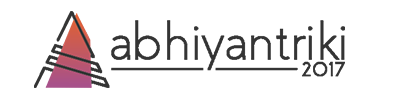
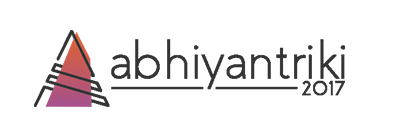
responsiveness

diff --git a/dist/bundle.js b/dist/bundle.js
@@ -1,1 +1,1 @@
-!function(e){var t={};function r(n){if(t[n])return t[n].exports;var o=t[n]={i:n,l:!1,exports:{}};return e[n].call(o.exports,o,o.exports,r),o.l=!0,o.exports}r.m=e,r.c=t,r.d=function(e,t,n){r.o(e,t)||Object.defineProperty(e,t,{enumerable:!0,get:n})},r.r=function(e){"undefined"!=typeof Symbol&&Symbol.toStringTag&&Object.defineProperty(e,Symbol.toStringTag,{value:"Module"}),Object.defineProperty(e,"__esModule",{value:!0})},r.t=function(e,t){if(1&t&&(e=r(e)),8&t)return e;if(4&t&&"object"==typeof e&&e&&e.__esModule)return e;var n=Object.create(null);if(r.r(n),Object.defineProperty(n,"default",{enumerable:!0,value:e}),2&t&&"string"!=typeof e)for(var o in e)r.d(n,o,function(t){return e[t]}.bind(null,o));return n},r.n=function(e){var t=e&&e.__esModule?function(){return e.default}:function(){return e};return r.d(t,"a",t),t},r.o=function(e,t){return Object.prototype.hasOwnProperty.call(e,t)},r.p="/dist",r(r.s=5)}([function(e,t){e.exports=function(e){var t="undefined"!=typeof window&&window.location;if(!t)throw new Error("fixUrls requires window.location");if(!e||"string"!=typeof e)return e;var r=t.protocol+"//"+t.host,n=r+t.pathname.replace(/\/[^\/]*$/,"/");return e.replace(/url\s*\(((?:[^)(]|\((?:[^)(]+|\([^)(]*\))*\))*)\)/gi,function(e,t){var o,i=t.trim().replace(/^"(.*)"$/,function(e,t){return t}).replace(/^'(.*)'$/,function(e,t){return t});return/^(#|data:|http:\/\/|https:\/\/|file:\/\/\/|\s*$)/i.test(i)?e:(o=0===i.indexOf("//")?i:0===i.indexOf("/")?r+i:n+i.replace(/^\.\//,""),"url("+JSON.stringify(o)+")")})}},function(e,t,r){var n={},o=function(e){var t;return function(){return void 0===t&&(t=e.apply(this,arguments)),t}}(function(){return window&&document&&document.all&&!window.atob}),i=function(e){var t={};return function(e){if("function"==typeof e)return e();if(void 0===t[e]){var r=function(e){return document.querySelector(e)}.call(this,e);if(window.HTMLIFrameElement&&r instanceof window.HTMLIFrameElement)try{r=r.contentDocument.head}catch(e){r=null}t[e]=r}return t[e]}}(),a=null,c=0,s=[],f=r(0);function l(e,t){for(var r=0;r<e.length;r++){var o=e[r],i=n[o.id];if(i){i.refs++;for(var a=0;a<i.parts.length;a++)i.parts[a](o.parts[a]);for(;a<o.parts.length;a++)i.parts.push(b(o.parts[a],t))}else{var c=[];for(a=0;a<o.parts.length;a++)c.push(b(o.parts[a],t));n[o.id]={id:o.id,refs:1,parts:c}}}}function u(e,t){for(var r=[],n={},o=0;o<e.length;o++){var i=e[o],a=t.base?i[0]+t.base:i[0],c={css:i[1],media:i[2],sourceMap:i[3]};n[a]?n[a].parts.push(c):r.push(n[a]={id:a,parts:[c]})}return r}function d(e,t){var r=i(e.insertInto);if(!r)throw new Error("Couldn't find a style target. This probably means that the value for the 'insertInto' parameter is invalid.");var n=s[s.length-1];if("top"===e.insertAt)n?n.nextSibling?r.insertBefore(t,n.nextSibling):r.appendChild(t):r.insertBefore(t,r.firstChild),s.push(t);else if("bottom"===e.insertAt)r.appendChild(t);else{if("object"!=typeof e.insertAt||!e.insertAt.before)throw new Error("[Style Loader]\n\n Invalid value for parameter 'insertAt' ('options.insertAt') found.\n Must be 'top', 'bottom', or Object.\n (https://github.com/webpack-contrib/style-loader#insertat)\n");var o=i(e.insertInto+" "+e.insertAt.before);r.insertBefore(t,o)}}function p(e){if(null===e.parentNode)return!1;e.parentNode.removeChild(e);var t=s.indexOf(e);t>=0&&s.splice(t,1)}function h(e){var t=document.createElement("style");return void 0===e.attrs.type&&(e.attrs.type="text/css"),m(t,e.attrs),d(e,t),t}function m(e,t){Object.keys(t).forEach(function(r){e.setAttribute(r,t[r])})}function b(e,t){var r,n,o,i;if(t.transform&&e.css){if(!(i=t.transform(e.css)))return function(){};e.css=i}if(t.singleton){var s=c++;r=a||(a=h(t)),n=g.bind(null,r,s,!1),o=g.bind(null,r,s,!0)}else e.sourceMap&&"function"==typeof URL&&"function"==typeof URL.createObjectURL&&"function"==typeof URL.revokeObjectURL&&"function"==typeof Blob&&"function"==typeof btoa?(r=function(e){var t=document.createElement("link");return void 0===e.attrs.type&&(e.attrs.type="text/css"),e.attrs.rel="stylesheet",m(t,e.attrs),d(e,t),t}(t),n=function(e,t,r){var n=r.css,o=r.sourceMap,i=void 0===t.convertToAbsoluteUrls&&o;(t.convertToAbsoluteUrls||i)&&(n=f(n));o&&(n+="\n/*# sourceMappingURL=data:application/json;base64,"+btoa(unescape(encodeURIComponent(JSON.stringify(o))))+" */");var a=new Blob([n],{type:"text/css"}),c=e.href;e.href=URL.createObjectURL(a),c&&URL.revokeObjectURL(c)}.bind(null,r,t),o=function(){p(r),r.href&&URL.revokeObjectURL(r.href)}):(r=h(t),n=function(e,t){var r=t.css,n=t.media;n&&e.setAttribute("media",n);if(e.styleSheet)e.styleSheet.cssText=r;else{for(;e.firstChild;)e.removeChild(e.firstChild);e.appendChild(document.createTextNode(r))}}.bind(null,r),o=function(){p(r)});return n(e),function(t){if(t){if(t.css===e.css&&t.media===e.media&&t.sourceMap===e.sourceMap)return;n(e=t)}else o()}}e.exports=function(e,t){if("undefined"!=typeof DEBUG&&DEBUG&&"object"!=typeof document)throw new Error("The style-loader cannot be used in a non-browser environment");(t=t||{}).attrs="object"==typeof t.attrs?t.attrs:{},t.singleton||"boolean"==typeof t.singleton||(t.singleton=o()),t.insertInto||(t.insertInto="head"),t.insertAt||(t.insertAt="bottom");var r=u(e,t);return l(r,t),function(e){for(var o=[],i=0;i<r.length;i++){var a=r[i];(c=n[a.id]).refs--,o.push(c)}e&&l(u(e,t),t);for(i=0;i<o.length;i++){var c;if(0===(c=o[i]).refs){for(var s=0;s<c.parts.length;s++)c.parts[s]();delete n[c.id]}}}};var v=function(){var e=[];return function(t,r){return e[t]=r,e.filter(Boolean).join("\n")}}();function g(e,t,r,n){var o=r?"":n.css;if(e.styleSheet)e.styleSheet.cssText=v(t,o);else{var i=document.createTextNode(o),a=e.childNodes;a[t]&&e.removeChild(a[t]),a.length?e.insertBefore(i,a[t]):e.appendChild(i)}}},function(e,t){e.exports=function(e){var t=[];return t.toString=function(){return this.map(function(t){var r=function(e,t){var r=e[1]||"",n=e[3];if(!n)return r;if(t&&"function"==typeof btoa){var o=function(e){return"/*# sourceMappingURL=data:application/json;charset=utf-8;base64,"+btoa(unescape(encodeURIComponent(JSON.stringify(e))))+" */"}(n),i=n.sources.map(function(e){return"/*# sourceURL="+n.sourceRoot+e+" */"});return[r].concat(i).concat([o]).join("\n")}return[r].join("\n")}(t,e);return t[2]?"@media "+t[2]+"{"+r+"}":r}).join("")},t.i=function(e,r){"string"==typeof e&&(e=[[null,e,""]]);for(var n={},o=0;o<this.length;o++){var i=this[o][0];"number"==typeof i&&(n[i]=!0)}for(o=0;o<e.length;o++){var a=e[o];"number"==typeof a[0]&&n[a[0]]||(r&&!a[2]?a[2]=r:r&&(a[2]="("+a[2]+") and ("+r+")"),t.push(a))}},t}},function(e,t,r){(e.exports=r(2)(!1)).push([e.i,"*,:after,:before{margin:0;padding:0;box-sizing:inherit}:root{--color-primary:#fc427b;--color-primary-dark:#b33771;--color-secondary:#0062c5;--color-secondary-light:#1b9cfc;--color-white:#fff;--color-black:#222;--color-gray:#ccc;background-color:var(--color-white);color:var(--color-black)}body{box-sizing:border-box;overflow-x:hidden}a{text-decoration:none}body{font-size:1.6rem;font-family:Sans-Serif}.container{width:100vw;height:100vh;background:var(--color-gray);position:relative;border:.5rem solid var(--color-black)}.container__button{display:inline-block;background-color:var(--color-primary);color:var(--color-white);padding:.5rem 5rem;border-radius:3rem;position:relative;top:50%;left:50%;transform:translate(-50%,-50%);cursor:pointer;transition:all .5s ease-in-out;margin-bottom:1rem}.container__button:hover{box-shadow:0 .5rem .5rem -.2rem var(--color-black);transform:translate(-50%,calc(-50% - .5rem))}.container__heading{cursor:pointer;display:inline-block;position:relative;top:50%;left:50%;transform:translate(-50%,-50%);margin-bottom:1rem}.container__heading--text{padding:.5rem 0;text-align:center;transition:all .5s ease-in-out}.container__heading--overline{width:60%;margin:0 auto;background:linear-gradient(-90deg,var(--color-primary),var(--color-primary-dark),var(--color-primary));height:.5rem;border-radius:.5rem;transition:all .5s ease-in-out}.container__heading:hover>.container__heading--overline{width:100%;transform:translateY(2rem)}.container__heading:hover>.container__heading--text{transform:translateY(-1rem)}.ffont{text-align:center;margin-top:10px;font-family:Times,serif;font-style:bold;font-size:15px;color:#000}main{display:flex;flex-flow:row wrap;justify-content:center;width:100%}.flexbox img{width:100%;height:auto}@media screen and (min-device-width:651px){.col-1,.col-2{width:225px;height:100px;margin-bottom:20px;margin-left:20px}.col-3{width:300px;margin-top:25px;margin-bottom:25px}}.imgcontainer{margin:0 auto;text-align:center}.effect{width:100%;padding:50px 0 70px;background-color:#fff}.effect .buttons{margin-top:50px;display:flex;justify-content:center}.effect a:last-child{margin-right:0}.effect a{text-decoration:none!important;color:#fff;width:60px;height:60px;display:flex;align-items:center;justify-content:center;border-radius:10px;margin-right:20px;font-size:25px;overflow:hidden;position:relative}.effect a i{position:relative;z-index:3}.effect a.fb{background-color:#3b5998}.effect a.tw{background-color:#00aced}.effect a.insta{background-color:#bc2a8d}.effect a.in{background-color:#212121}.effect.laertes a,.effect.laertes a i{transition:all .2s linear 0s}.effect.laertes a:hover{border-radius:50%/20%}.effect.laertes a:hover i{transform:scale(1.1);text-shadow:0 0 12px rgba(33,33,33,.6)}",""])},function(e,t,r){var n=r(3);"string"==typeof n&&(n=[[e.i,n,""]]);var o={hmr:!0,transform:void 0,insertInto:void 0};r(1)(n,o);n.locals&&(e.exports=n.locals)},function(e,t,r){"use strict";r.r(t);r(4)}]);
+!function(e){var t={};function r(n){if(t[n])return t[n].exports;var o=t[n]={i:n,l:!1,exports:{}};return e[n].call(o.exports,o,o.exports,r),o.l=!0,o.exports}r.m=e,r.c=t,r.d=function(e,t,n){r.o(e,t)||Object.defineProperty(e,t,{enumerable:!0,get:n})},r.r=function(e){"undefined"!=typeof Symbol&&Symbol.toStringTag&&Object.defineProperty(e,Symbol.toStringTag,{value:"Module"}),Object.defineProperty(e,"__esModule",{value:!0})},r.t=function(e,t){if(1&t&&(e=r(e)),8&t)return e;if(4&t&&"object"==typeof e&&e&&e.__esModule)return e;var n=Object.create(null);if(r.r(n),Object.defineProperty(n,"default",{enumerable:!0,value:e}),2&t&&"string"!=typeof e)for(var o in e)r.d(n,o,function(t){return e[t]}.bind(null,o));return n},r.n=function(e){var t=e&&e.__esModule?function(){return e.default}:function(){return e};return r.d(t,"a",t),t},r.o=function(e,t){return Object.prototype.hasOwnProperty.call(e,t)},r.p="/dist",r(r.s=5)}([function(e,t){e.exports=function(e){var t="undefined"!=typeof window&&window.location;if(!t)throw new Error("fixUrls requires window.location");if(!e||"string"!=typeof e)return e;var r=t.protocol+"//"+t.host,n=r+t.pathname.replace(/\/[^\/]*$/,"/");return e.replace(/url\s*\(((?:[^)(]|\((?:[^)(]+|\([^)(]*\))*\))*)\)/gi,function(e,t){var o,i=t.trim().replace(/^"(.*)"$/,function(e,t){return t}).replace(/^'(.*)'$/,function(e,t){return t});return/^(#|data:|http:\/\/|https:\/\/|file:\/\/\/|\s*$)/i.test(i)?e:(o=0===i.indexOf("//")?i:0===i.indexOf("/")?r+i:n+i.replace(/^\.\//,""),"url("+JSON.stringify(o)+")")})}},function(e,t,r){var n={},o=function(e){var t;return function(){return void 0===t&&(t=e.apply(this,arguments)),t}}(function(){return window&&document&&document.all&&!window.atob}),i=function(e){var t={};return function(e){if("function"==typeof e)return e();if(void 0===t[e]){var r=function(e){return document.querySelector(e)}.call(this,e);if(window.HTMLIFrameElement&&r instanceof window.HTMLIFrameElement)try{r=r.contentDocument.head}catch(e){r=null}t[e]=r}return t[e]}}(),a=null,c=0,s=[],f=r(0);function l(e,t){for(var r=0;r<e.length;r++){var o=e[r],i=n[o.id];if(i){i.refs++;for(var a=0;a<i.parts.length;a++)i.parts[a](o.parts[a]);for(;a<o.parts.length;a++)i.parts.push(b(o.parts[a],t))}else{var c=[];for(a=0;a<o.parts.length;a++)c.push(b(o.parts[a],t));n[o.id]={id:o.id,refs:1,parts:c}}}}function u(e,t){for(var r=[],n={},o=0;o<e.length;o++){var i=e[o],a=t.base?i[0]+t.base:i[0],c={css:i[1],media:i[2],sourceMap:i[3]};n[a]?n[a].parts.push(c):r.push(n[a]={id:a,parts:[c]})}return r}function d(e,t){var r=i(e.insertInto);if(!r)throw new Error("Couldn't find a style target. This probably means that the value for the 'insertInto' parameter is invalid.");var n=s[s.length-1];if("top"===e.insertAt)n?n.nextSibling?r.insertBefore(t,n.nextSibling):r.appendChild(t):r.insertBefore(t,r.firstChild),s.push(t);else if("bottom"===e.insertAt)r.appendChild(t);else{if("object"!=typeof e.insertAt||!e.insertAt.before)throw new Error("[Style Loader]\n\n Invalid value for parameter 'insertAt' ('options.insertAt') found.\n Must be 'top', 'bottom', or Object.\n (https://github.com/webpack-contrib/style-loader#insertat)\n");var o=i(e.insertInto+" "+e.insertAt.before);r.insertBefore(t,o)}}function p(e){if(null===e.parentNode)return!1;e.parentNode.removeChild(e);var t=s.indexOf(e);t>=0&&s.splice(t,1)}function h(e){var t=document.createElement("style");return void 0===e.attrs.type&&(e.attrs.type="text/css"),m(t,e.attrs),d(e,t),t}function m(e,t){Object.keys(t).forEach(function(r){e.setAttribute(r,t[r])})}function b(e,t){var r,n,o,i;if(t.transform&&e.css){if(!(i=t.transform(e.css)))return function(){};e.css=i}if(t.singleton){var s=c++;r=a||(a=h(t)),n=g.bind(null,r,s,!1),o=g.bind(null,r,s,!0)}else e.sourceMap&&"function"==typeof URL&&"function"==typeof URL.createObjectURL&&"function"==typeof URL.revokeObjectURL&&"function"==typeof Blob&&"function"==typeof btoa?(r=function(e){var t=document.createElement("link");return void 0===e.attrs.type&&(e.attrs.type="text/css"),e.attrs.rel="stylesheet",m(t,e.attrs),d(e,t),t}(t),n=function(e,t,r){var n=r.css,o=r.sourceMap,i=void 0===t.convertToAbsoluteUrls&&o;(t.convertToAbsoluteUrls||i)&&(n=f(n));o&&(n+="\n/*# sourceMappingURL=data:application/json;base64,"+btoa(unescape(encodeURIComponent(JSON.stringify(o))))+" */");var a=new Blob([n],{type:"text/css"}),c=e.href;e.href=URL.createObjectURL(a),c&&URL.revokeObjectURL(c)}.bind(null,r,t),o=function(){p(r),r.href&&URL.revokeObjectURL(r.href)}):(r=h(t),n=function(e,t){var r=t.css,n=t.media;n&&e.setAttribute("media",n);if(e.styleSheet)e.styleSheet.cssText=r;else{for(;e.firstChild;)e.removeChild(e.firstChild);e.appendChild(document.createTextNode(r))}}.bind(null,r),o=function(){p(r)});return n(e),function(t){if(t){if(t.css===e.css&&t.media===e.media&&t.sourceMap===e.sourceMap)return;n(e=t)}else o()}}e.exports=function(e,t){if("undefined"!=typeof DEBUG&&DEBUG&&"object"!=typeof document)throw new Error("The style-loader cannot be used in a non-browser environment");(t=t||{}).attrs="object"==typeof t.attrs?t.attrs:{},t.singleton||"boolean"==typeof t.singleton||(t.singleton=o()),t.insertInto||(t.insertInto="head"),t.insertAt||(t.insertAt="bottom");var r=u(e,t);return l(r,t),function(e){for(var o=[],i=0;i<r.length;i++){var a=r[i];(c=n[a.id]).refs--,o.push(c)}e&&l(u(e,t),t);for(i=0;i<o.length;i++){var c;if(0===(c=o[i]).refs){for(var s=0;s<c.parts.length;s++)c.parts[s]();delete n[c.id]}}}};var v=function(){var e=[];return function(t,r){return e[t]=r,e.filter(Boolean).join("\n")}}();function g(e,t,r,n){var o=r?"":n.css;if(e.styleSheet)e.styleSheet.cssText=v(t,o);else{var i=document.createTextNode(o),a=e.childNodes;a[t]&&e.removeChild(a[t]),a.length?e.insertBefore(i,a[t]):e.appendChild(i)}}},function(e,t){e.exports=function(e){var t=[];return t.toString=function(){return this.map(function(t){var r=function(e,t){var r=e[1]||"",n=e[3];if(!n)return r;if(t&&"function"==typeof btoa){var o=function(e){return"/*# sourceMappingURL=data:application/json;charset=utf-8;base64,"+btoa(unescape(encodeURIComponent(JSON.stringify(e))))+" */"}(n),i=n.sources.map(function(e){return"/*# sourceURL="+n.sourceRoot+e+" */"});return[r].concat(i).concat([o]).join("\n")}return[r].join("\n")}(t,e);return t[2]?"@media "+t[2]+"{"+r+"}":r}).join("")},t.i=function(e,r){"string"==typeof e&&(e=[[null,e,""]]);for(var n={},o=0;o<this.length;o++){var i=this[o][0];"number"==typeof i&&(n[i]=!0)}for(o=0;o<e.length;o++){var a=e[o];"number"==typeof a[0]&&n[a[0]]||(r&&!a[2]?a[2]=r:r&&(a[2]="("+a[2]+") and ("+r+")"),t.push(a))}},t}},function(e,t,r){(e.exports=r(2)(!1)).push([e.i,"*,:after,:before{margin:0;padding:0;box-sizing:inherit}:root{--color-primary:#fc427b;--color-primary-dark:#b33771;--color-secondary:#0062c5;--color-secondary-light:#1b9cfc;--color-white:#fff;--color-black:#222;--color-gray:#ccc;background-color:var(--color-white);color:var(--color-black)}body{box-sizing:border-box;overflow-x:hidden}a{text-decoration:none}body{font-size:1.6rem;font-family:Sans-Serif}.container{width:100vw;height:100vh;background:var(--color-gray);position:relative;border:.5rem solid var(--color-black)}.container__button{display:inline-block;background-color:var(--color-primary);color:var(--color-white);padding:.5rem 5rem;border-radius:3rem;position:relative;top:50%;left:50%;transform:translate(-50%,-50%);cursor:pointer;transition:all .5s ease-in-out;margin-bottom:1rem}.container__button:hover{box-shadow:0 .5rem .5rem -.2rem var(--color-black);transform:translate(-50%,calc(-50% - .5rem))}.container__heading{cursor:pointer;display:inline-block;position:relative;top:50%;left:50%;transform:translate(-50%,-50%);margin-bottom:1rem}.container__heading--text{padding:.5rem 0;text-align:center;transition:all .5s ease-in-out}.container__heading--overline{width:60%;margin:0 auto;background:linear-gradient(-90deg,var(--color-primary),var(--color-primary-dark),var(--color-primary));height:.5rem;border-radius:.5rem;transition:all .5s ease-in-out}.container__heading:hover>.container__heading--overline{width:100%;transform:translateY(2rem)}.container__heading:hover>.container__heading--text{transform:translateY(-1rem)}.ffont{text-align:center;margin-top:10px;font-family:Times,serif;font-style:bold;font-size:15px;color:#000}main{display:flex;flex-flow:row wrap;justify-content:center;width:100%}.flexbox img{width:100%;height:auto}@media screen and (min-device-width:651px){.col-1,.col-2{width:20%;height:100px;margin-bottom:20px;margin-left:20px}.col-3{width:300px;margin-top:25px;margin-bottom:25px}}@media screen and (max-device-width:650px){.col-1,.col-2{width:20%;height:50px;margin-bottom:15px;margin-left:20px}.col-3{width:150px;margin-bottom:20px}}.imgcontainer{margin:0 auto;text-align:center}.effect{width:100%;padding:50px 0 70px;background-color:#fff}.effect .buttons{margin-top:50px;display:flex;justify-content:center}.effect a:last-child{margin-right:0}.effect a{text-decoration:none!important;color:#fff;width:60px;height:60px;display:flex;align-items:center;justify-content:center;border-radius:10px;margin-right:20px;font-size:25px;overflow:hidden;position:relative}.effect a i{position:relative;z-index:3}.effect a.fb{background-color:#3b5998}.effect a.tw{background-color:#00aced}.effect a.insta{background-color:#bc2a8d}.effect a.in{background-color:#212121}.effect.laertes a,.effect.laertes a i{transition:all .2s linear 0s}.effect.laertes a:hover{border-radius:50%/20%}.effect.laertes a:hover i{transform:scale(1.1);text-shadow:0 0 12px rgba(33,33,33,.6)}",""])},function(e,t,r){var n=r(3);"string"==typeof n&&(n=[[e.i,n,""]]);var o={hmr:!0,transform:void 0,insertInto:void 0};r(1)(n,o);n.locals&&(e.exports=n.locals)},function(e,t,r){"use strict";r.r(t);r(4)}]);

diff --git a/sass/components/_image_flex.scss b/sass/components/_image_flex.scss
@@ -22,26 +22,26 @@ main {
 
 @media screen and (min-device-width: 651px) {
 	.col-1 ,.col-2{
-        width: 225px;
+        width: 17%;
         height: 100px;
         margin-bottom: 20px;
         margin-left: 20px;
 	}
 	.col-3 {
-        width: 300px;
+        width: 15%;
         margin-top: 25px;
         margin-bottom: 25px;
 	}
 }
 @media screen and (max-device-width: 650px) {
 	.col-1 ,.col-2{
-        width: 100px;
+        width: 75px;
         height: 50px;
         margin-bottom: 15px;
         margin-left: 20px;
 	}
 	.col-3 {
-        width: 150px;
+        width: 100px;
         margin-bottom: 20px;
 	}
 }
